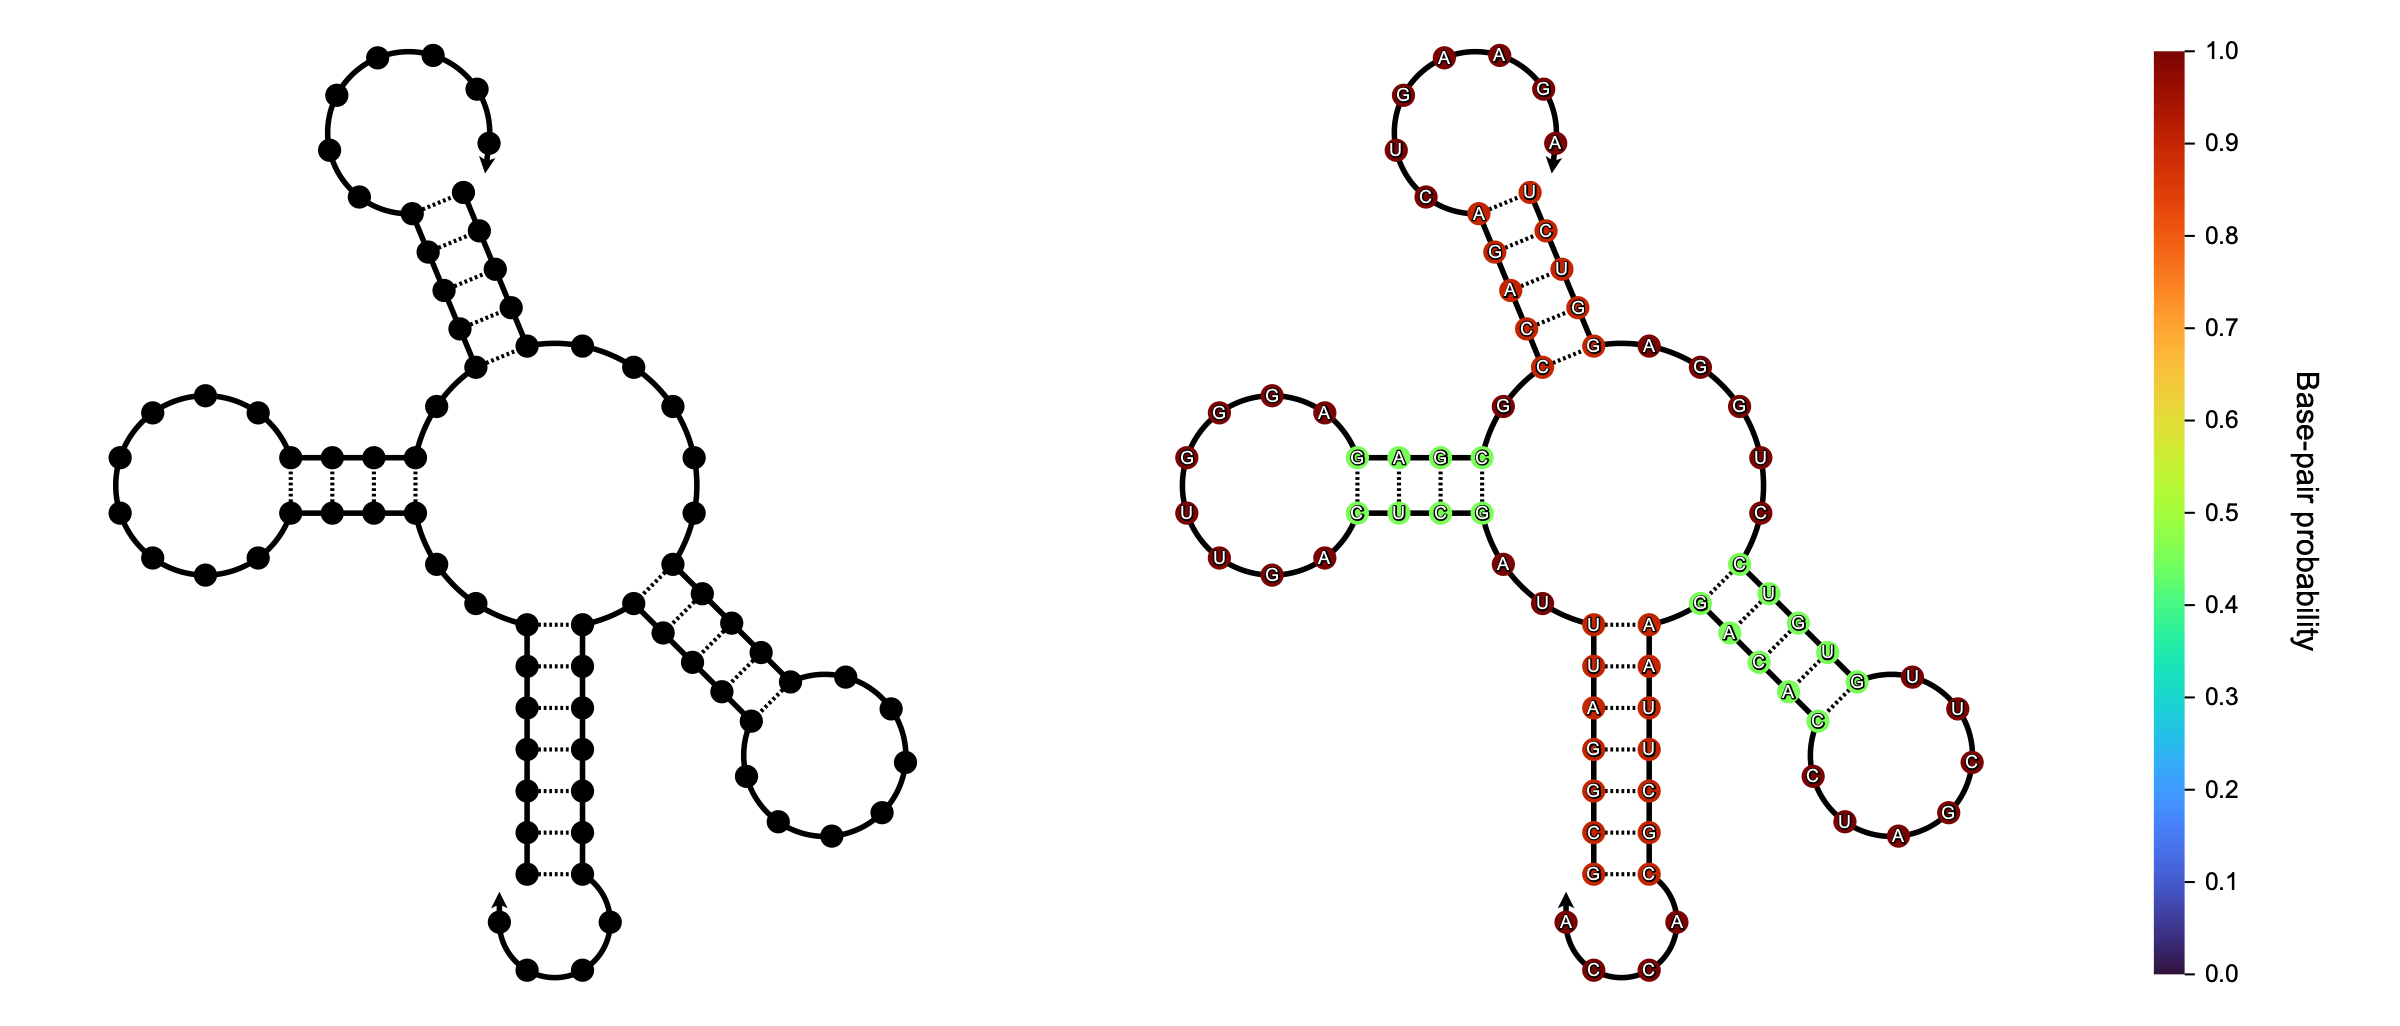
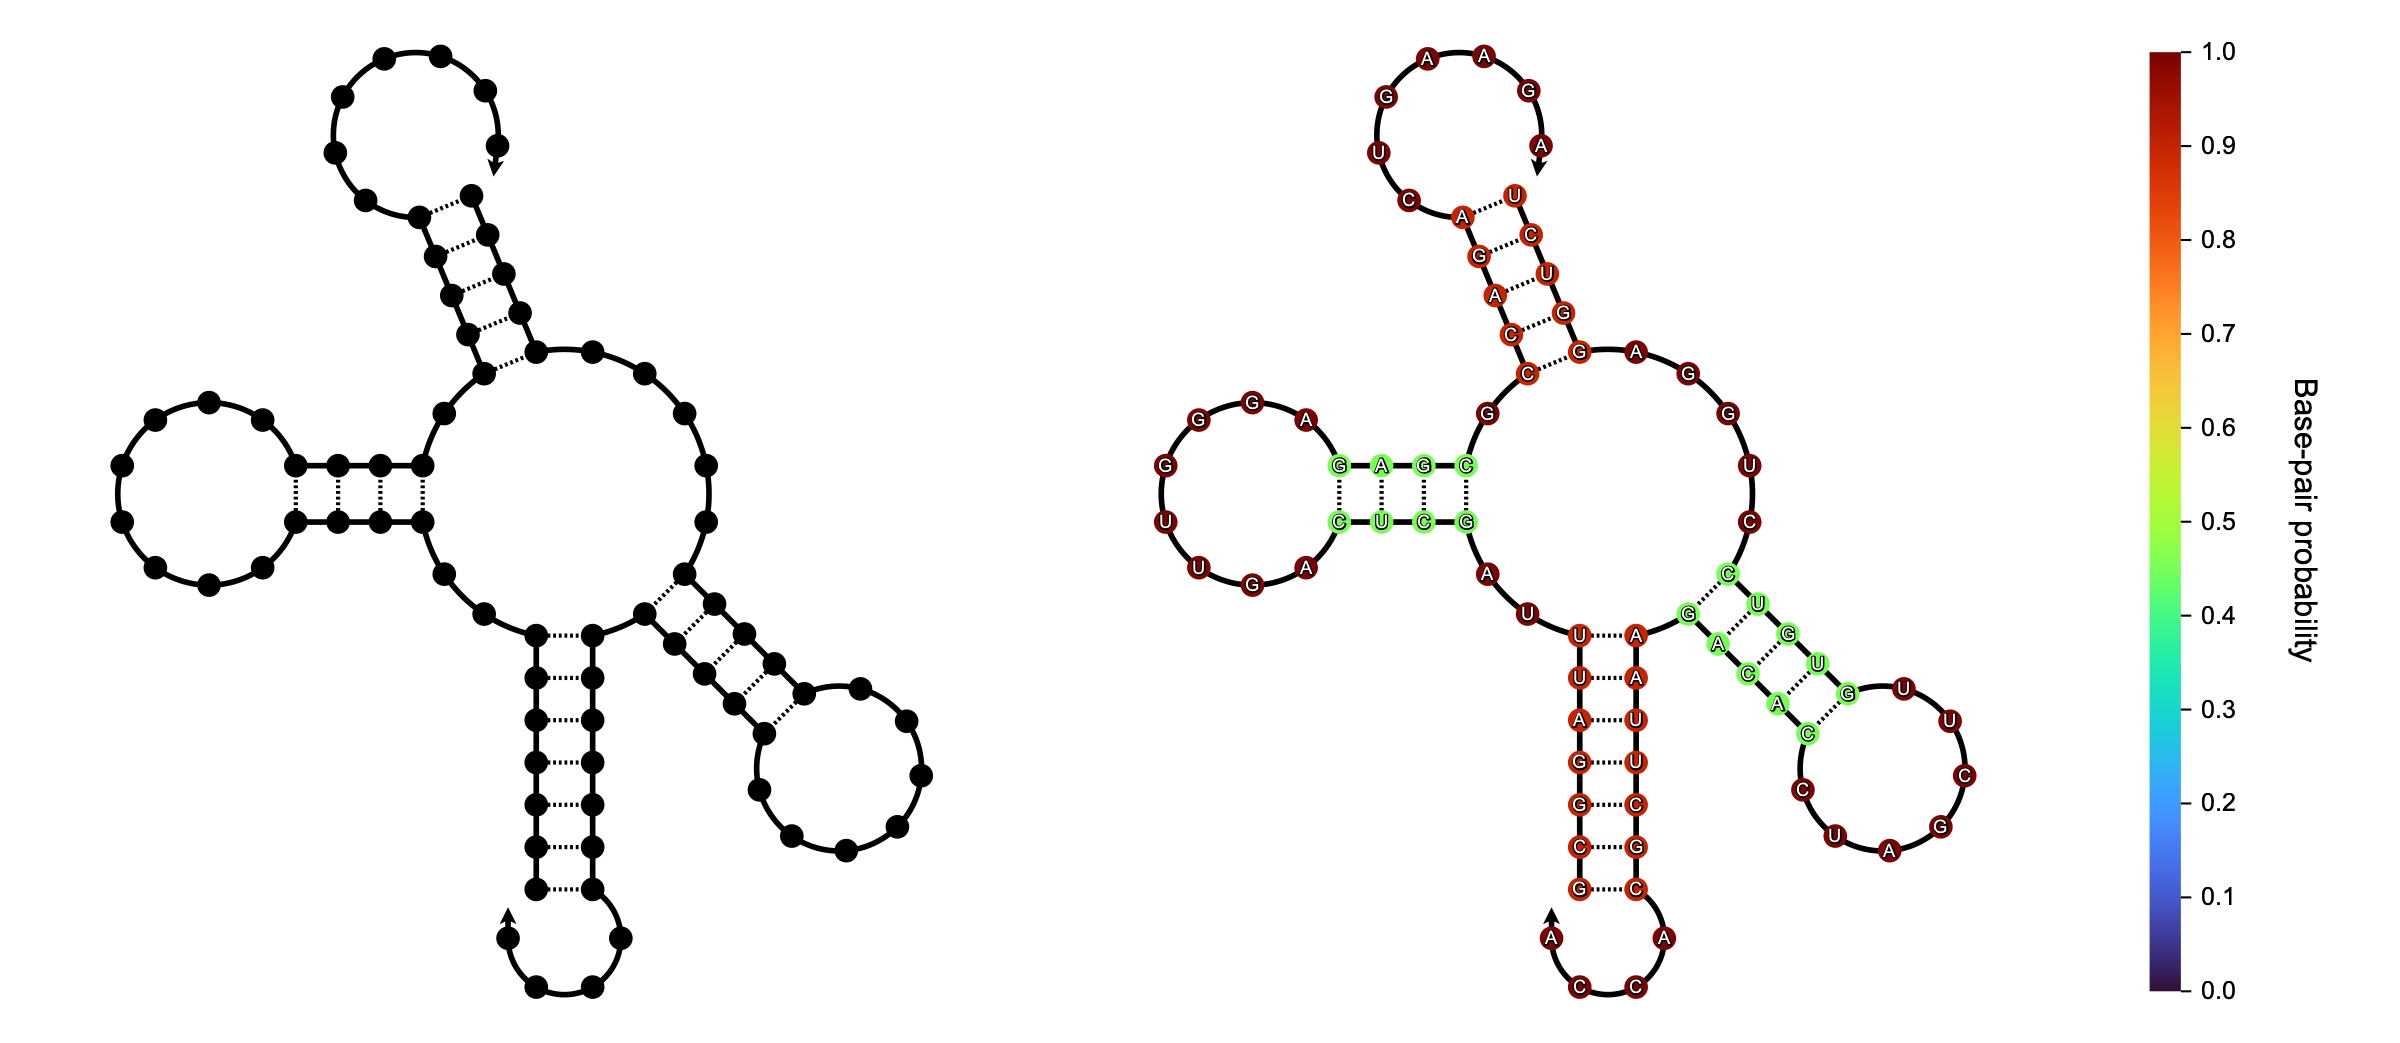
docs: say which structure is which, and drop the gap between them

diff --git a/docs/make_images.py b/docs/make_images.py
@@ -66,7 +66,7 @@ def demo_probs(dot_bracket: str) -> np.ndarray:
 PROBS = demo_probs(CLOVERLEAF)
 
 
-def row(components: list[Component], gap: float) -> Scene:
+def row(components: list[Component]) -> Scene:
     """Lay components out left to right, all as tall as the first."""
     height = components[0].bbox.height
     placements = []
@@ -76,7 +76,7 @@ def row(components: list[Component], gap: float) -> Scene:
             component, x=cursor_x, scale=height / component.bbox.height
         )
         placements.append(placement)
-        cursor_x = placement.bbox.xmax + gap
+        cursor_x = placement.bbox.xmax
 
     return Scene(Component.from_placements(placements))
 
@@ -109,8 +109,7 @@ def example() -> Scene:
                 basepair_probabilities=PROBS,
                 colorbar_label="Base-pair probability",
             ),
-        ],
-        gap=20.0,
+        ]
     )
 
 

diff --git a/README.md b/README.md
@@ -218,7 +218,9 @@ This is how the picture at the top of this page is drawn:
 from nuc2d import Component, Placement, Scene, draw_svg_as_component
 
 components = [
+    # The structure on its own.
     draw_svg_as_component(CLOVERLEAF),
+    # The same structure, with its sequences and base-pair probabilities.
     draw_svg_as_component(
         CLOVERLEAF,
         sequences=SEQUENCES,
@@ -227,7 +229,7 @@ components = [
     ),
 ]
 
-# Lay the components out in a row, all as tall as the first, with a gap between.
+# Lay the components out in a row, all as tall as the first.
 height = components[0].bbox.height
 placements, cursor_x = [], 0.0
 for component in components:
@@ -235,7 +237,7 @@ for component in components:
         component, x=cursor_x, scale=height / component.bbox.height
     )
     placements.append(placement)
-    cursor_x = placement.bbox.xmax + 20.0
+    cursor_x = placement.bbox.xmax
 
 Scene(Component.from_placements(placements)).save_svg("panel.svg")
 ```
